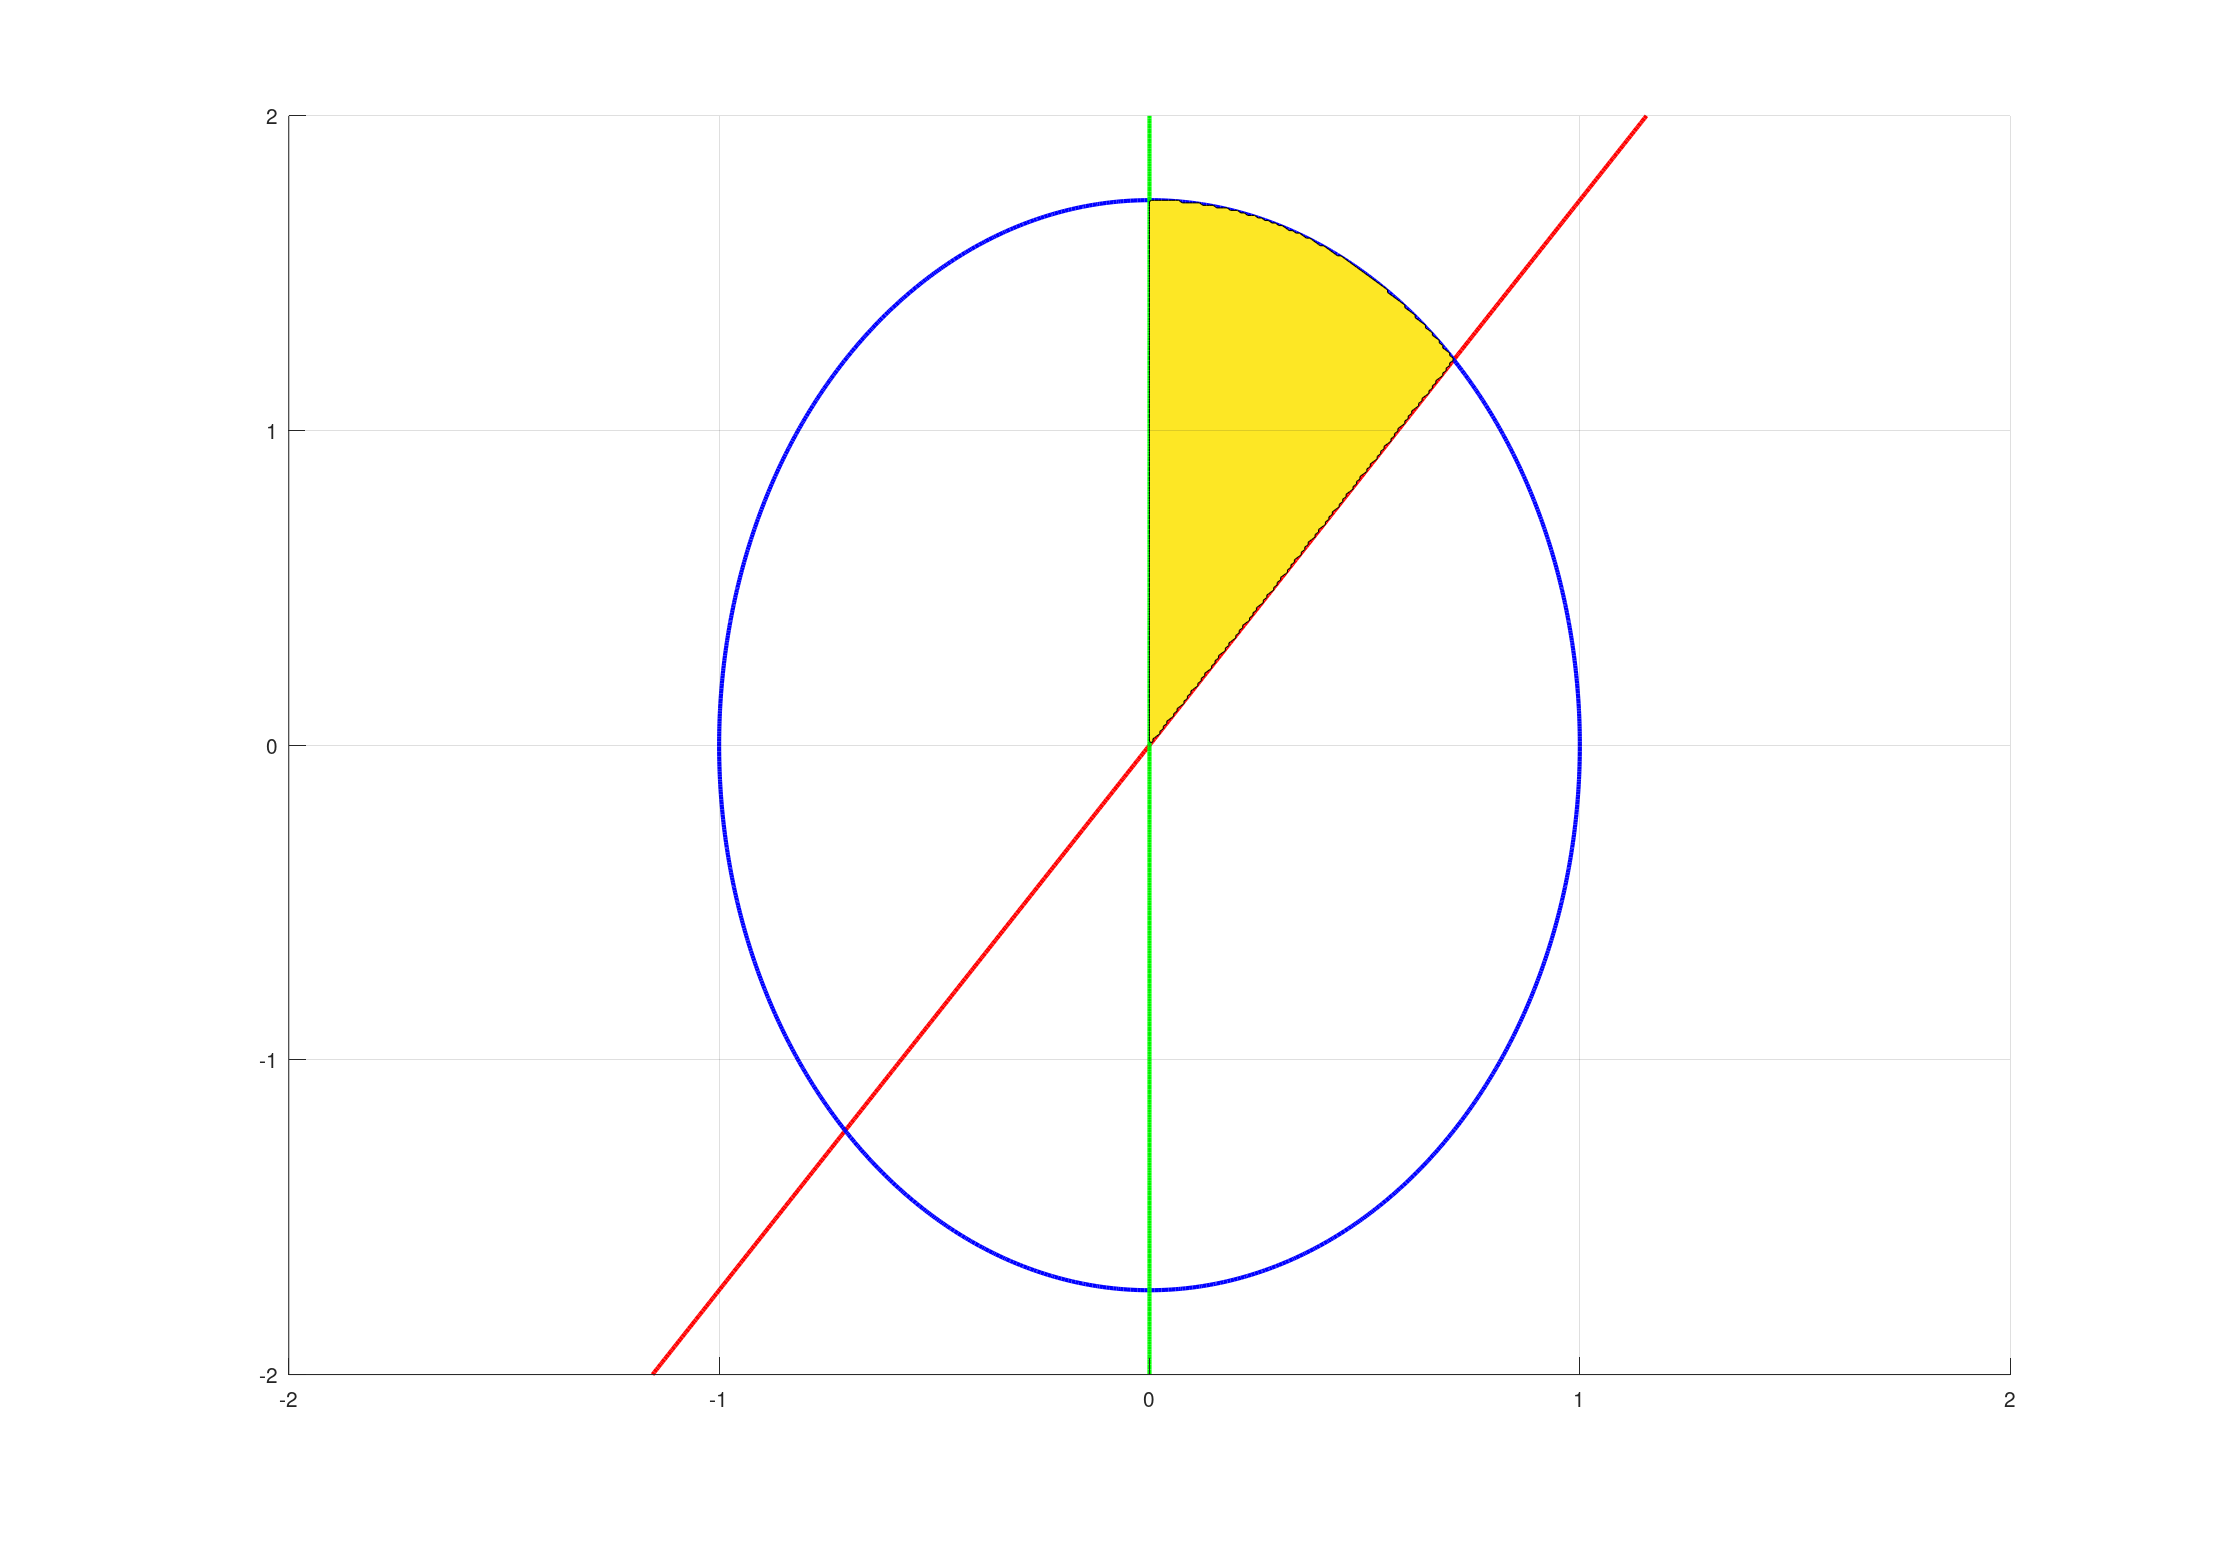
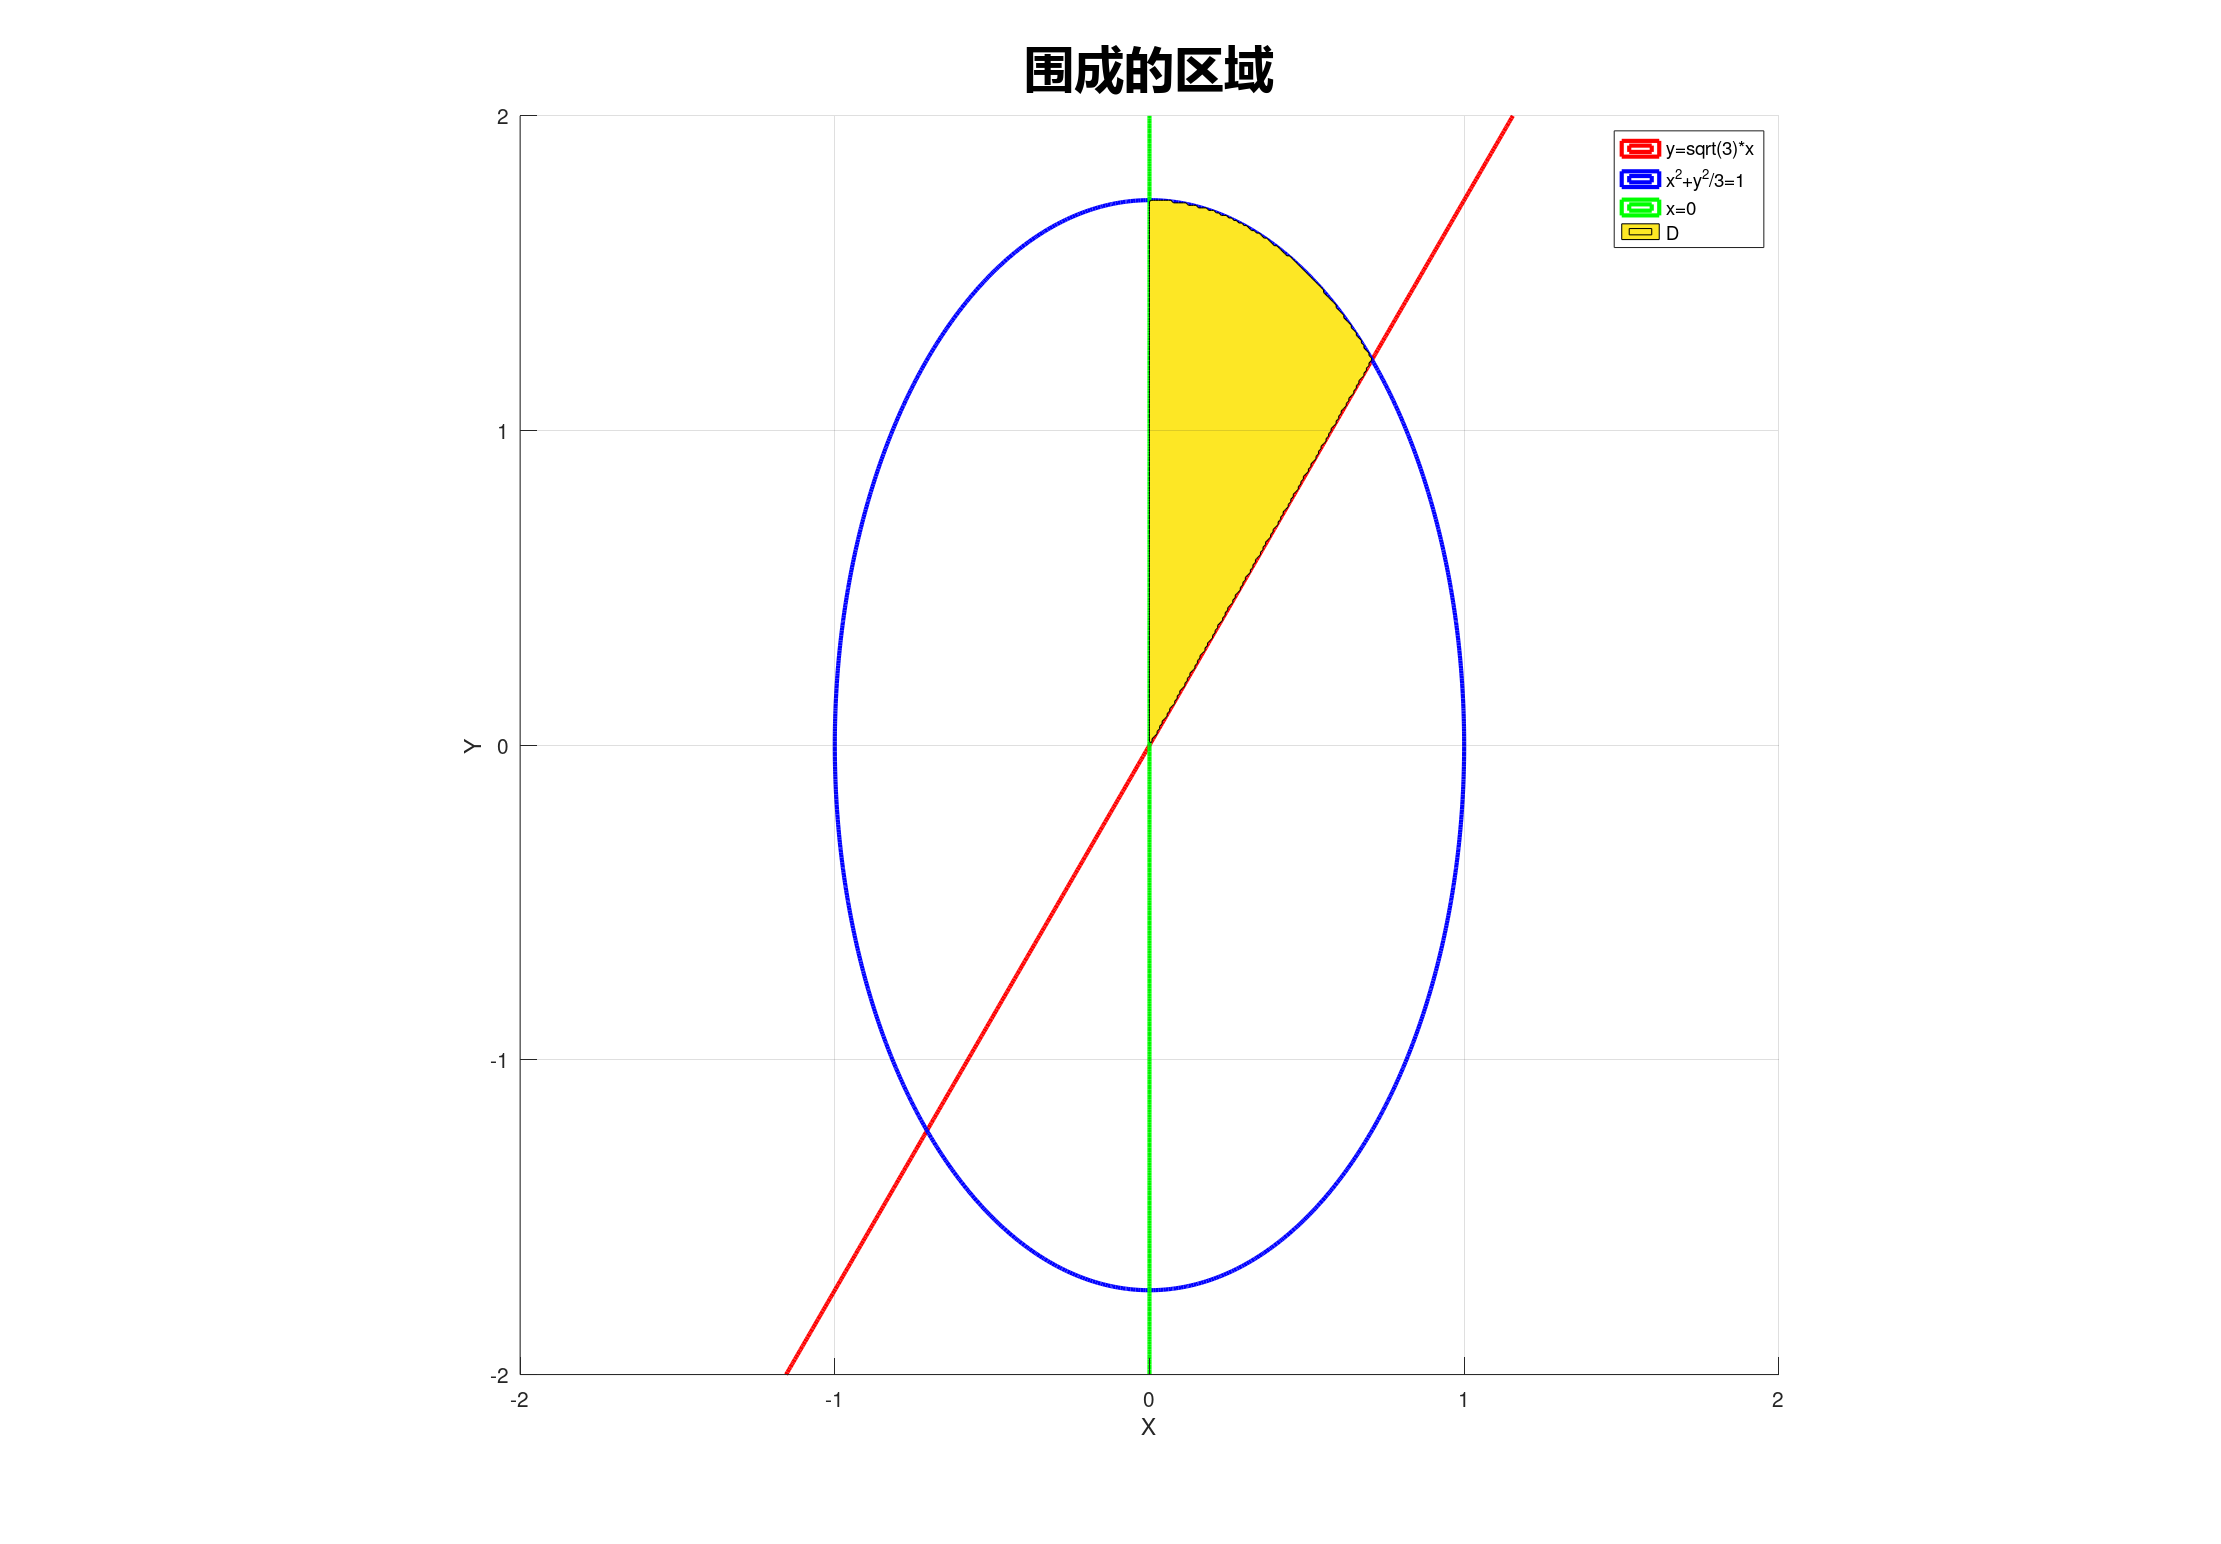
更新Matlab、Octave代码和绘制图片。

diff --git a/Calculus.md b/Calculus.md
@@ -49,14 +49,16 @@ I
 
 ---
 
-**平面区域D是由 $x=0$, $y=\sqrt{3(1-x^2)}$, $y=\sqrt{3}x$ 围成的，求二重积分 $I= \iint \limits_D x^2 \mathrm{d}x \mathrm{d}y$。**
+**（2018年数三（16））平面区域D是由 $x=0$, $y=\sqrt{3(1-x^2)}$, $y=\sqrt{3}x$ 围成的，求二重积分 $I= \iint \limits_D x^2 \mathrm{d}x \mathrm{d}y$。**
 |![黄色部分是平面区域D](./images/Calculus/2018年考研数学三（16）.png)|
 |:--:|
 | 黄色部分是平面区域D |
 
-黄色部分是平面区域D。先对y积分，上下界是椭圆和直线方程。再对x积分，上下界是$0$到$\frac{\sqrt{2}}{2}$。
+黄色部分是平面区域D。先对y积分，上下界是椭圆和直线方程。再对x积分，上下界是$0$到$\frac{\sqrt{2}}{2}$。画出这个区域的Matlab、Octave代码。
+
 ```matlab
 % 通用方法，适用于各种方程
+clear;
 figure;
 hold on;
 
@@ -76,20 +78,18 @@ contour(x, y, f3, [0 0], 'g-', 'LineWidth', 2);  % f3=0
 % 填充满足所有不等式的区域
 % 例如：在f1以上、f2椭圆内、f3右侧的区域
 region = (f1 <= 0) & (f2 <= 0) & (f3 >= 0);
-contourf(x, y, double(region), [0.5 0.5], 'FaceColor', 'cyan', 'FaceAlpha', 0.3);
+contourf(x, y, double(region), [0.5 0.5]);
 
 grid on;
 axis equal;
-xlim([-2, 2]);
-ylim([-2, 2]);
-xlabel('x');
-ylabel('y');
-title('三个方程围成的区域');
-legend('x^2+y^2=4', 'x^2/9+y^2/4=1', 'y=x^2', 'D');
-legend on;
+xlabel('X');
+ylabel('Y');
+title('围成的区域', 'fontname', 'Microsoft YaHei', 'fontsize', 24);
+legend('y=sqrt(3)*x', 'x^2+y^2/3=1', 'x=0', 'D');
 
 hold off;
 ```
+
 $\begin{aligned}
 I 
 &= \int_0^{\frac{\sqrt{2}}{2}} \mathrm{d}x \int_{\sqrt{3}x}^{\sqrt{3(1-x^2)}} x^2 \mathrm{d}y \\
@@ -119,6 +119,48 @@ I&= \sqrt{3}(I_1-I_2)\\
 ---
 
 **计算二重积分$I= \int_0^\pi \int_0^x \frac{\sin t}{\pi-t} \mathrm{d}t \mathrm{d}x$**
+|![确定二重积分区域图形](./images/Calculus/计算二重积分.png)|
+|:--:|
+| 确定二重积分区域图形 |
+
+画出这个区域的Matlab、Octave代码。
+
+```matlab
+% 通用方法，适用于各种方程
+clear;
+figure;
+hold on;
+
+% 创建网格
+[x, t] = meshgrid(linspace(-0.5, 4, 500));
+
+% 定义三个方程
+f1 = x - t; % 直线y=x
+f2 = t; % 直线y=0
+f3 = x - pi;             % 直线 x = pi
+
+% 绘制等高线（方程曲线）
+contour(x, t, f1, [0 0], 'r-', 'LineWidth', 2);  % f1=0
+contour(x, t, f2, [0 0], 'b-', 'LineWidth', 2);  % f2=0
+contour(x, t, f3, [0 0], 'g-', 'LineWidth', 2);  % f3=0
+
+% 填充满足所有不等式的区域
+% 例如：在f1以上、f2椭圆内、f3右侧的区域
+region = (f1 >= 0) & (f2 >= 0) & (f3 <= 0);
+contourf(x, t, double(region), [0.5 0.5]);
+
+grid on;
+axis equal;
+xlabel('X');
+ylabel('T');
+title('围成的区域', 'fontname', 'Microsoft YaHei', 'fontsize', 24);
+legend('t=x', 't=0', 'x=pi', 'D', 'fontsize', 16);
+
+hold off;
+```
+
+黄色部分是积分区域图形，先对t积分，后的对方x积分，确定上下限。
+
 $\begin{aligned}
 I
 &= \int_x^\pi \int_0^x \frac{\sin t}{\pi-t} \mathrm{d}t \mathrm{d}x \\
